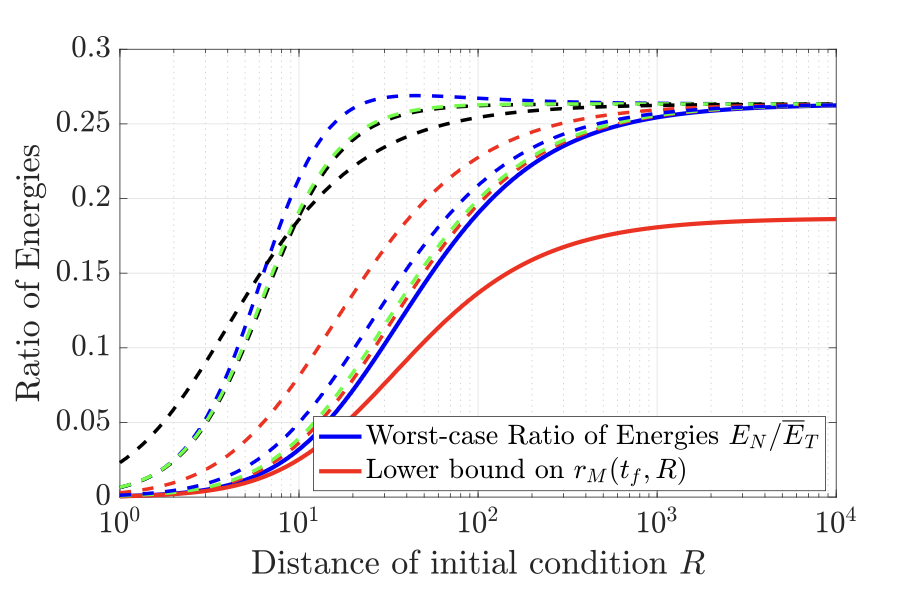
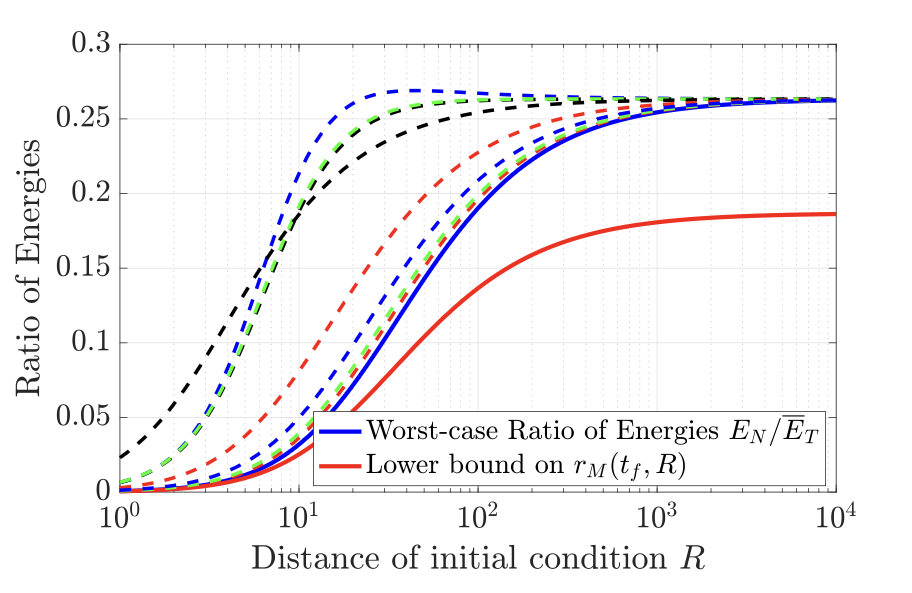
ResUpdate

diff --git a/_pages/research.md b/_pages/research.md
@@ -28,11 +28,15 @@ where \\(E_N\\) and \\(E_D\\) are the energies used in the *nominal* and *distur
 
 ## Under a Partial Loss in Control Authority
 
-The focus now shifts to systems under actuation constraints that lose authority over a subset of their actuators, termed a *partial loss in control authority*. Such a setting has prior practical, real-world motivation [[2]](#2), and has seen some investigation in the past by Bouvier *et al.* ([[3]](#3) and referenced papers within). However, these works have considered only linear systems, with resilience quantification in terms of reachable time. Using control energy as above, I am able to derive approximate bounds on metrics for resilience quantification even for nonlinear systems.
+The focus now shifts to systems under actuation constraints that lose authority over a subset of their actuators, termed a *partial loss in control authority*. Such a setting has prior practical, real-world motivation [[2]](#2), and has seen some investigation in the past by Bouvier *et al.* ([[3]](#3) and referenced papers within). However, these works have considered only linear systems, with resilience quantification in terms of reachable time. Using control energy as above, I am able to derive approximate bounds on *energetic resilience* metrics, even for nonlinear systems.
 
 The first part of this work [[4]](#4) considers simple linear, driftless dynamics and derives bounds on metrics similar to those defined earlier. These results are eventually used to approximate a bound on the additive metric for nonlinear systems [[5]](#5) using approximate bounds on the worst-case total energy used. A key result in this work is proving that the difference between system responses of linear driftless dynamics and nonlinear dynamics is bounded under appropriate structural conditions. The two figures below show the behavior of the different metrics, on the left for linear driftless systems, and on the right for nonlinear systems.
 
 <img src="https://ram-p.github.io/images/DftRes.png" alt = "Driftless Systems" width="300"/> <img src="https://ram-p.github.io/images/NLRes.png" alt = "Nonlinear Systems" width="300"/>
+
+# Resilient Design
+
+The second broad theme of my research concerns *designing* resilient behavior in dynamical systems, i.e., how do we design inputs to ensure resilient behavior, under hostile effects as described earlier?
 
 # Past Research
 
@@ -65,10 +69,10 @@ R. Padmanabhan, C. Bakker, S. A. Dinkar, and M. Ornik, ["How Much Reserve Fuel: 
 M. Bartels, "Russia’s Nauka module briefly tilts space station with unplanned thruster fire," Aug. 2021. [Online]. Available: https://www.space.com/nauka-module-thruster-fire-tilts-space-station
 
 <a id="3">[3]</a> 
-J.-B. Bouvier and M. Ornik, ["Resilience of linear systems to partial loss of control authority,"](https://www.sciencedirect.com/science/article/pii/S0005109823001383) _Automatica_, vol. 152, June 2023.
+J.-B. Bouvier and M. Ornik, ["Resilience of linear systems to partial loss of control authority,"](https://www.sciencedirect.com/science/article/pii/S0005109823001383) _Automatica_, 152, June 2023.
 
 <a id="4">[4]</a>
-**R. Padmanabhan** and M. Ornik, ["Energetic Resilience of Linear Driftless Systems,"](https://www.sciencedirect.com/science/article/pii/S2405896325014922) in _11th IFAC Symposium on Robust Control Design (ROCOND)_, Porto, Portugal, Jul. 2025. \[Available at [arXiv:2410.00323](https://arxiv.org/abs/2410.00323)\]
+R. Padmanabhan and M. Ornik, ["Energetic Resilience of Linear Driftless Systems,"](https://www.sciencedirect.com/science/article/pii/S2405896325014922) in _11th IFAC Symposium on Robust Control Design (ROCOND)_, Porto, Portugal, Jul. 2025. \[Available at [arXiv:2410.00323](https://arxiv.org/abs/2410.00323)\]
 
 <a id="5">[5]</a>
-**R. Padmanabhan** and M. Ornik, ["Approximate Energetic Resilience of Nonlinear Systems under Partial Loss of Control Authority,"](https://www.sciencedirect.com/science/article/pii/S0005109826000828) _Automatica_, 187, May 2026. \[Extended version available at [arXiv:2502.07603](https://arxiv.org/abs/2502.07603)\]
+R. Padmanabhan and M. Ornik, ["Approximate Energetic Resilience of Nonlinear Systems under Partial Loss of Control Authority,"](https://www.sciencedirect.com/science/article/pii/S0005109826000828) _Automatica_, 187, May 2026. \[Extended version available at [arXiv:2502.07603](https://arxiv.org/abs/2502.07603)\]